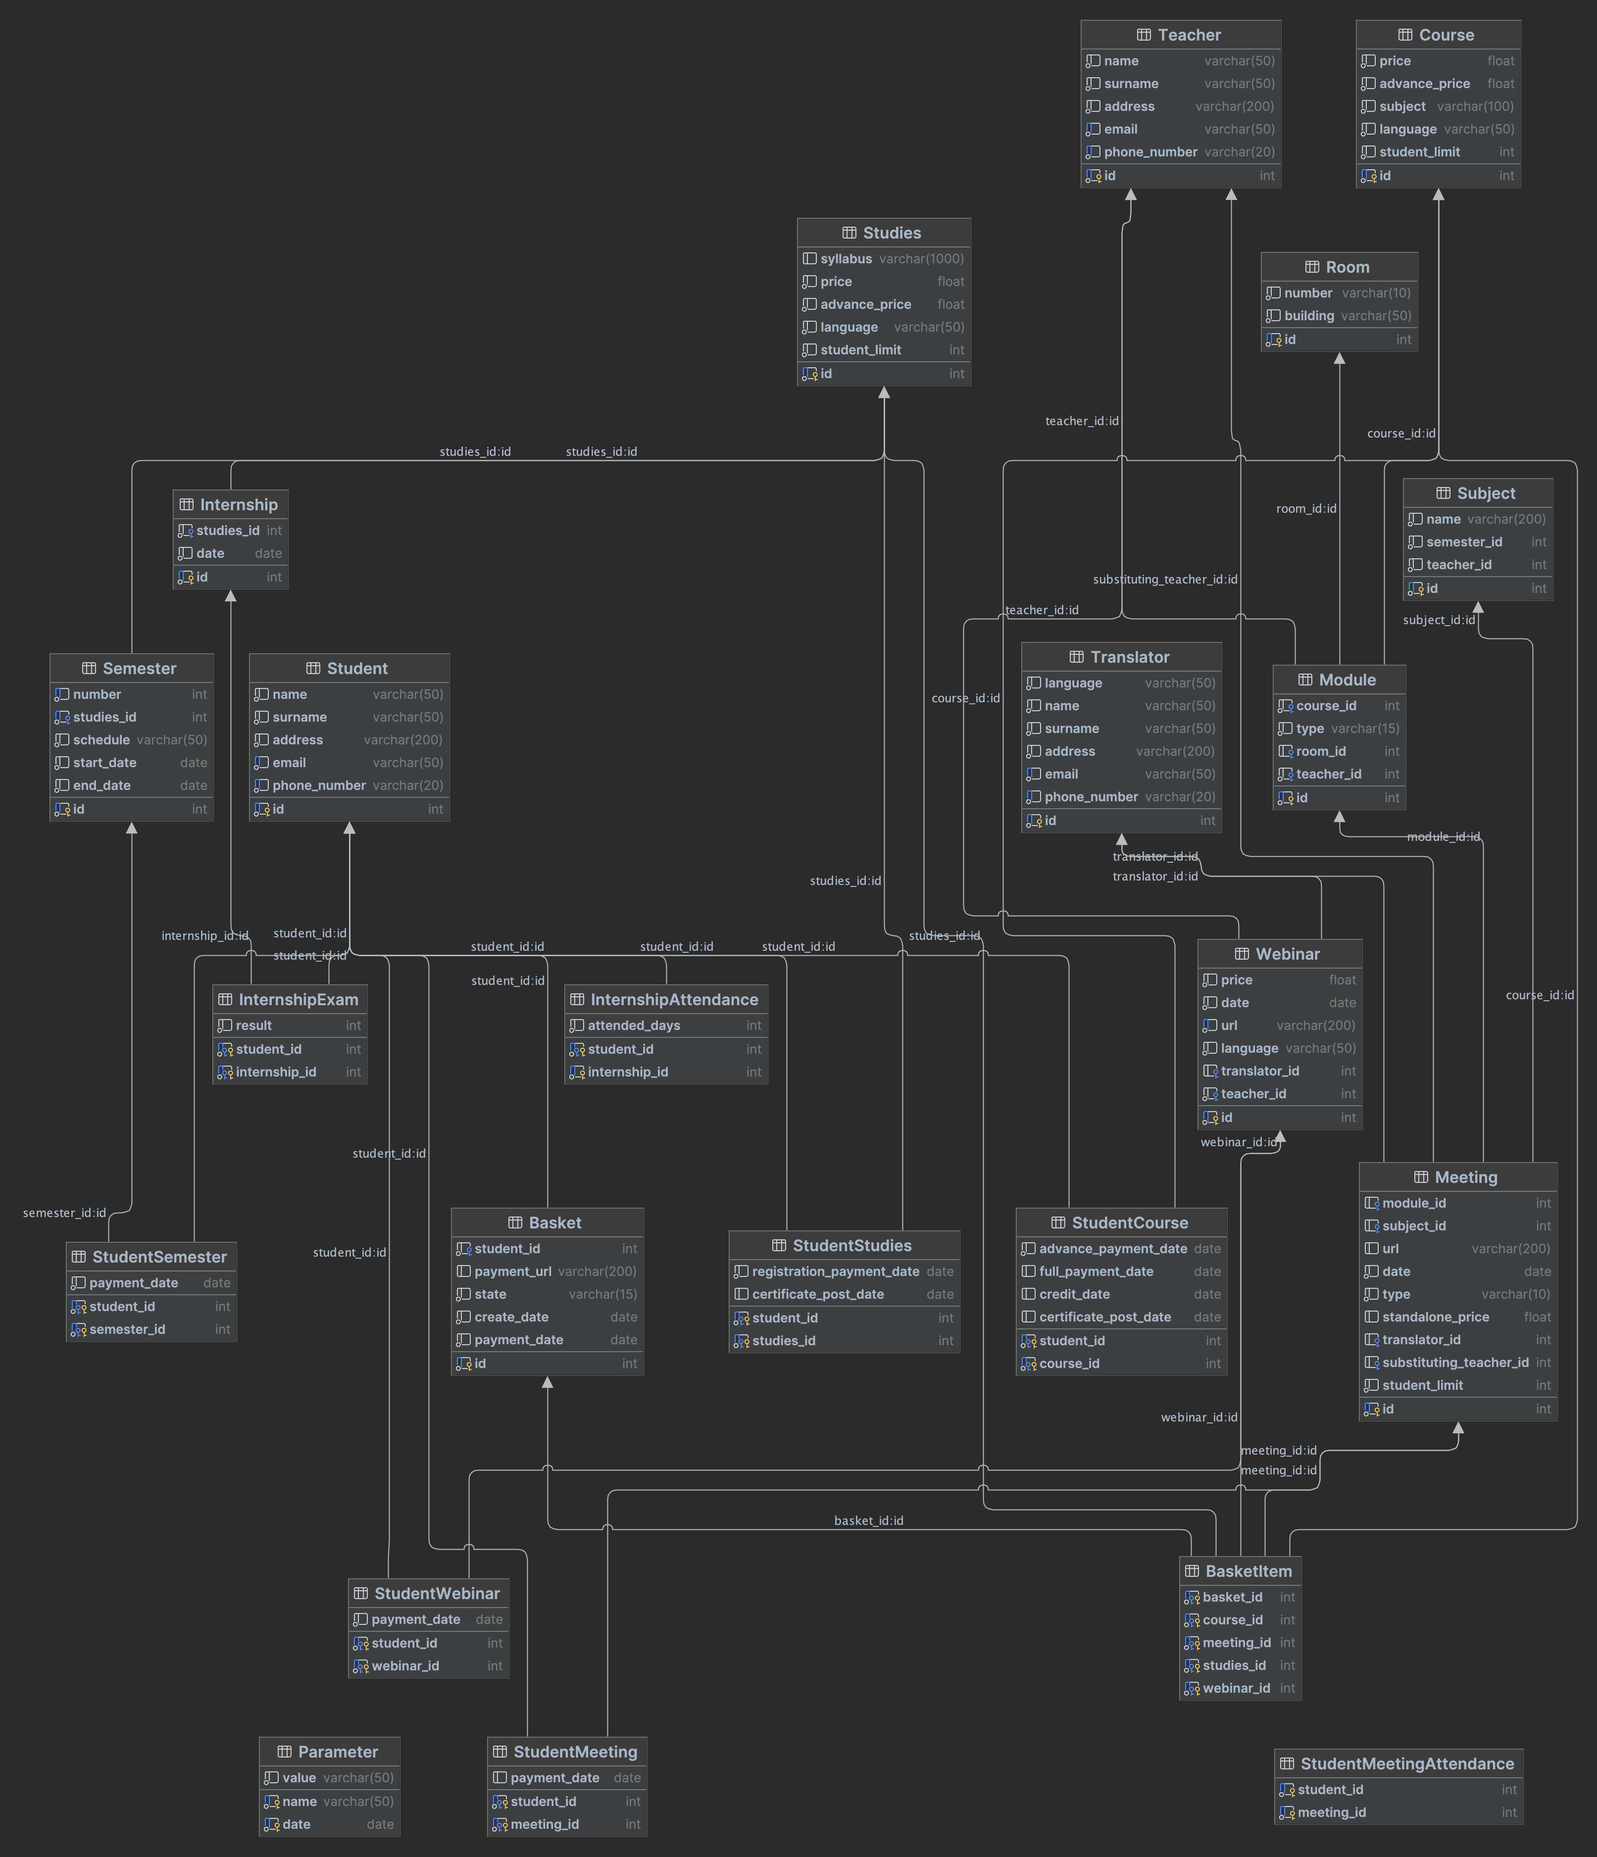
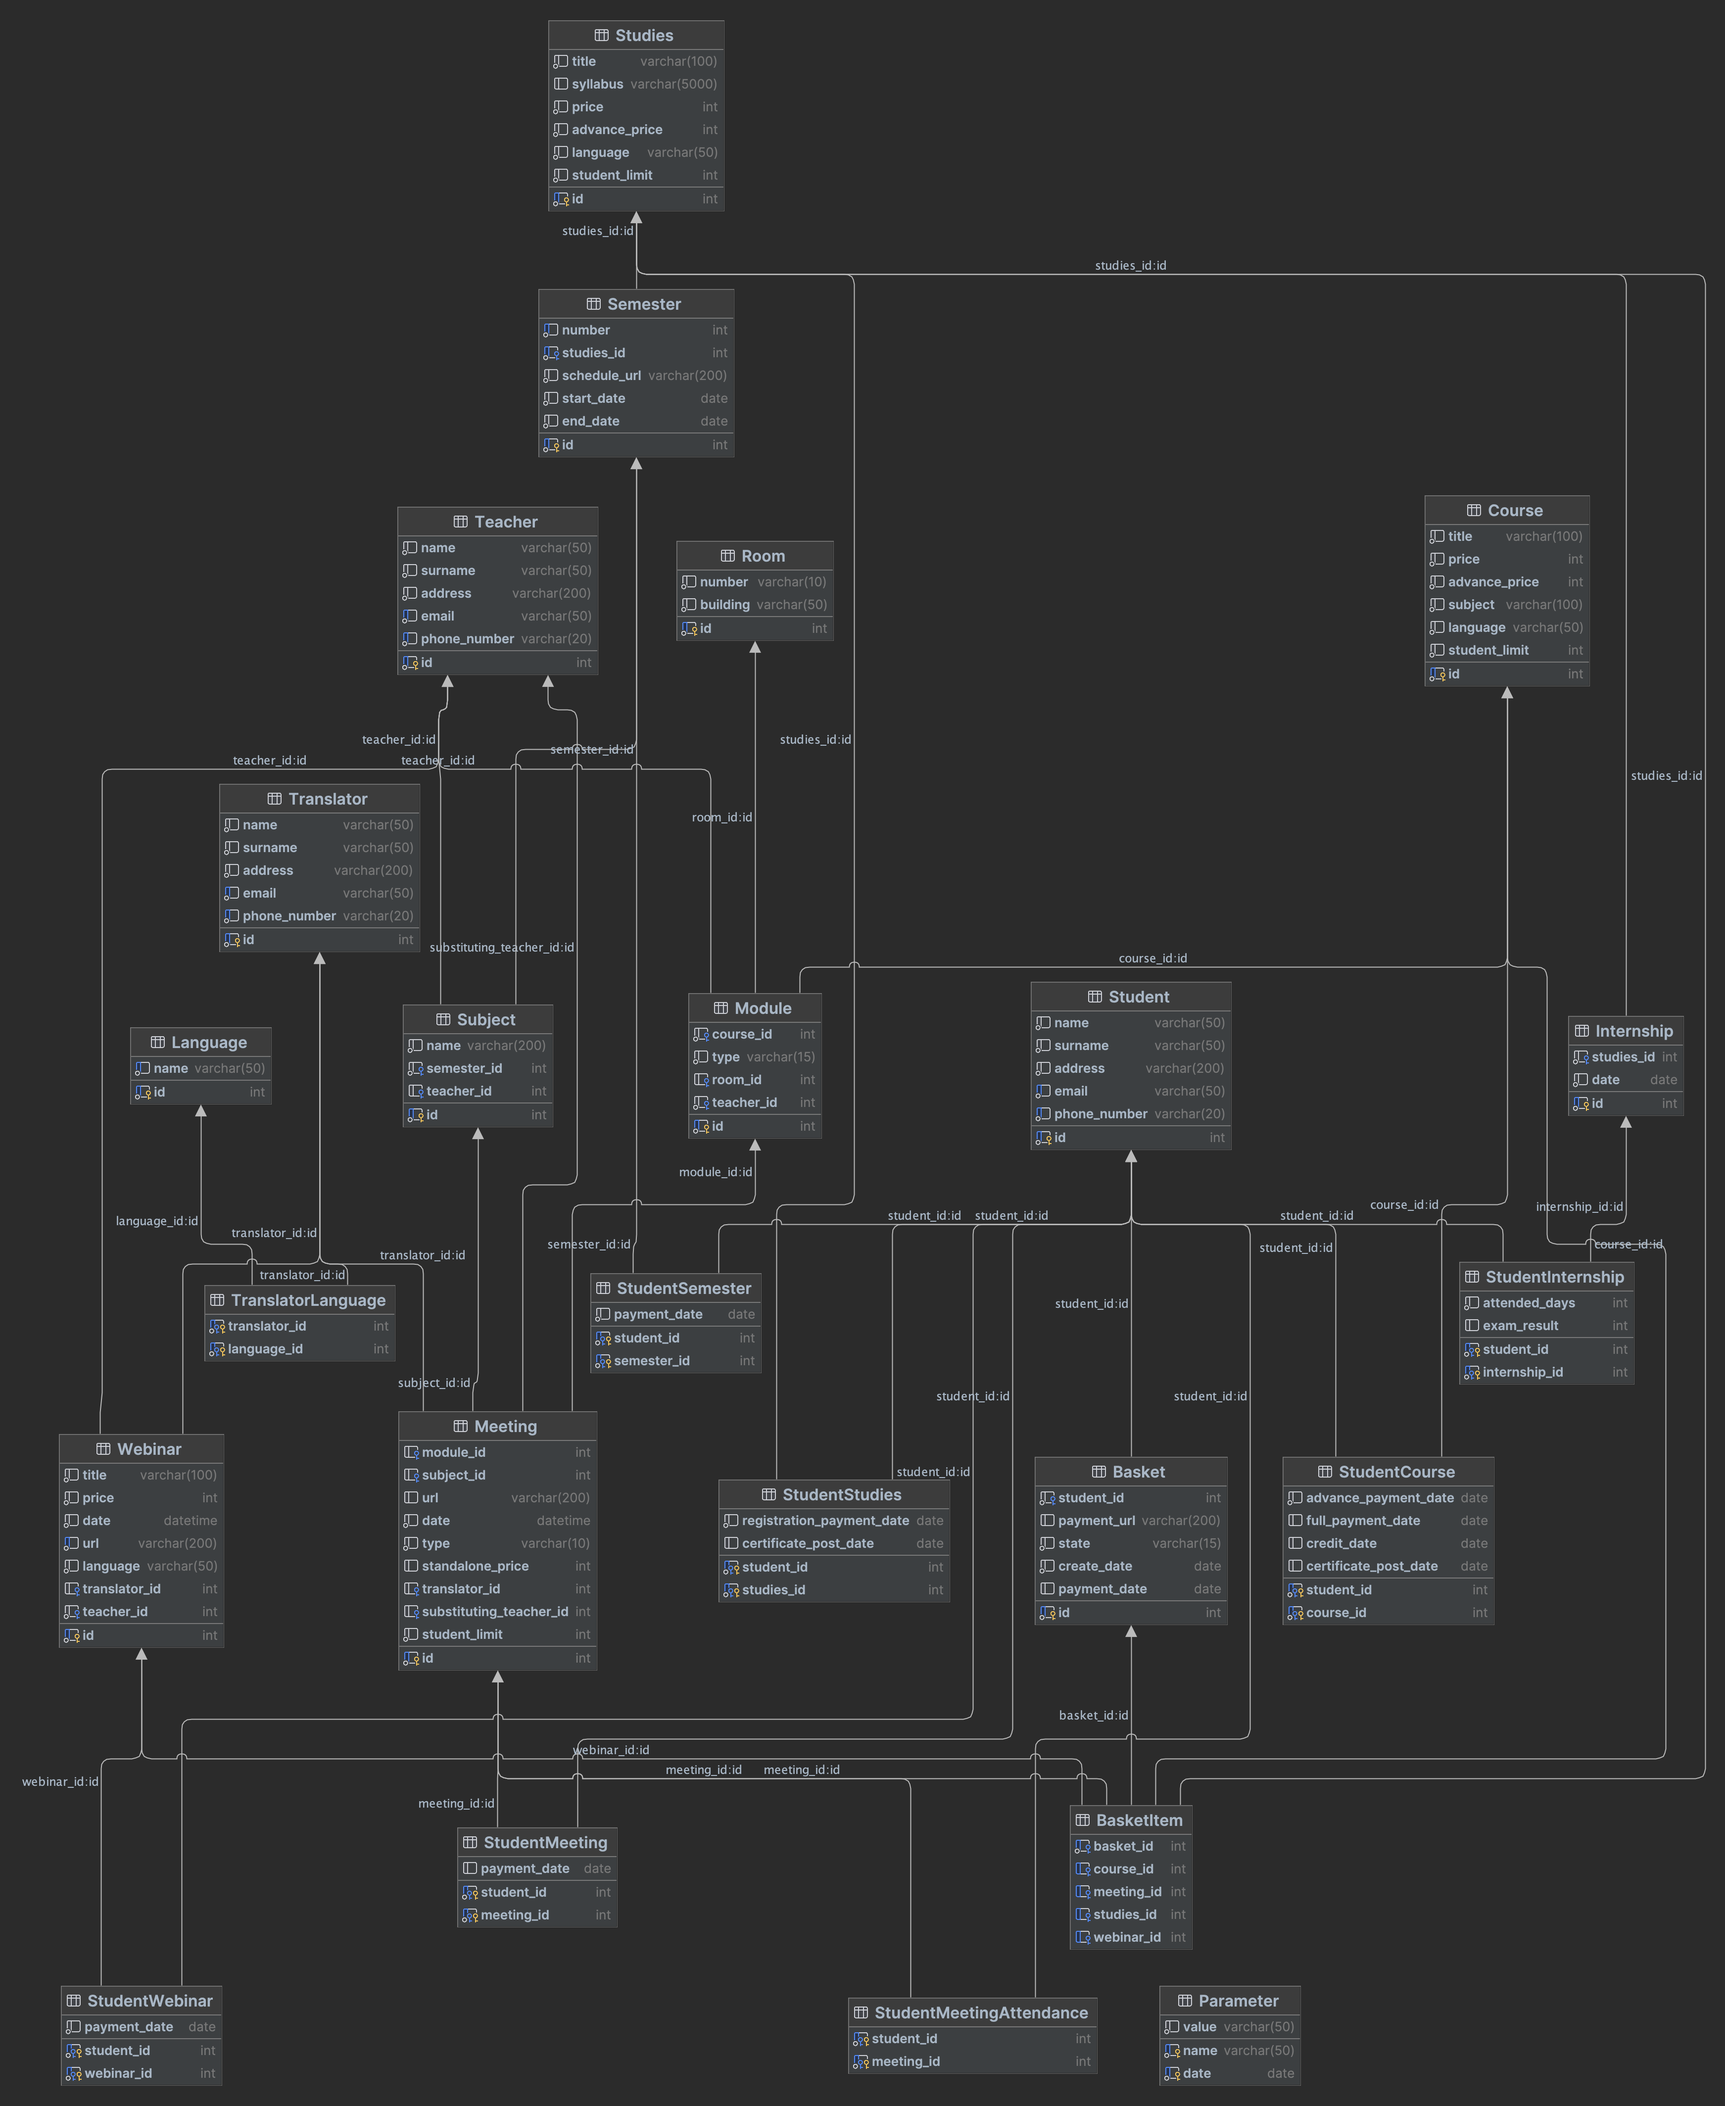
add language table

diff --git a/Faker/src/main/kotlin/InsertManager.kt b/Faker/src/main/kotlin/InsertManager.kt
@@ -4,20 +4,19 @@ import com.typesafe.config.Config
 import io.github.serpro69.kfaker.Faker
 import kotlinx.coroutines.flow.asFlow
 import kotlinx.coroutines.flow.count
-import kotlinx.coroutines.flow.map
+import kotlinx.coroutines.flow.mapNotNull
 import model.*
 import mu.KotlinLogging
 import org.jetbrains.exposed.dao.id.IntIdTable
 import org.jetbrains.exposed.sql.insert
 import org.jetbrains.exposed.sql.selectAll
 import org.jetbrains.exposed.sql.transactions.experimental.newSuspendedTransaction
-import org.oolab.model.model.Language
 import org.oolab.model.model.Languages
 import org.oolab.model.model.TranslatorLanguage
 import java.time.LocalDateTime
 
 @Suppress("LocalVariableName")
-class InsertManager(private val faker: Faker, val fakerConfig: Config) {
+class InsertManager(private val faker: Faker, val fakerConfig: Config, val reconnect: () -> Unit) {
   private val logger = KotlinLogging.logger("InsertManager")
 
   init {
@@ -88,8 +87,8 @@ class InsertManager(private val faker: Faker, val fakerConfig: Config) {
         faker.random { language = faker.nation.language() }
         studentLimit = faker.random.nextInt(1..5)
       }
-    }!!
-  }.count()
+    }
+  }.countNotNull()
 
   suspend fun insertRooms(): Int = List(get("rooms")) {
     safeTransaction {
@@ -97,24 +96,25 @@ class InsertManager(private val faker: Faker, val fakerConfig: Config) {
         number = faker.string.numerify("##.##")
         building = faker.string.bothify("?##", true)
       }
-    }!!
-  }.count()
+    }
+  }.countNotNull()
 
-  suspend fun insertLanguages(): Int = List(get("languages")) {
-    safeTransaction {
-      Language.new {
-        name = faker.nation.language()
+  suspend fun insertLanguages(): Int =
+    generateSequence { faker.nation.language() }.distinct().take(get("languages")).asFlow().mapNotNull { name ->
+      safeTransaction {
+        Languages.insert {
+          it[Languages.name] = name
+        }
       }
-    }!!
-  }.count()
+    }.count()
 
   suspend fun insertBaskets(): Int {
     val studentIds = Students.allIds()
     return List(get("baskets")) {
-      safeTransaction {
-        val isOpen = faker.random.nextBoolean()
-        val createDat = faker.date()
-        studentIds.takeRandom(get("basketItems")).map { _studentId ->
+      val isOpen = faker.random.nextBoolean()
+      val createDat = faker.date()
+      studentIds.takeRandom(get("basketItems")).mapNotNull { _studentId ->
+        safeTransaction {
           Baskets.insert {
             it[studentId] = _studentId
             if (!isOpen) it[paymentUrl] = faker.internet.url(
@@ -127,7 +127,7 @@ class InsertManager(private val faker: Faker, val fakerConfig: Config) {
             faker.random { it[paymentDate] = faker.date(createDat) }
           }
         }
-      }!!
+      }
     }.flatten().count()
   }
 
@@ -136,16 +136,14 @@ class InsertManager(private val faker: Faker, val fakerConfig: Config) {
     return studiesIds.sumOf { _studiesId ->
       generateSequence(faker.date()) { previous ->
         previous.plusMonths(6)
-      }.take(faker.random.nextInt(get<IntRange>("internships")))
-        .asFlow()
-        .map { _date ->
-          safeTransaction {
-            Internships.insert {
-              it[studiesId] = _studiesId
-              it[date] = _date
-            }
-          }!!
-        }.count()
+      }.take(faker.random.nextInt(get<IntRange>("internships"))).asFlow().mapNotNull { _date ->
+        safeTransaction {
+          Internships.insert {
+            it[studiesId] = _studiesId
+            it[date] = _date
+          }
+        }
+      }.count()
     }
   }
 
@@ -153,39 +151,39 @@ class InsertManager(private val faker: Faker, val fakerConfig: Config) {
     val semesterIds = Semesters.allIds()
     val teacherIds = Teachers.allIds()
     return semesterIds.sumOf { _semesterId ->
-      List(faker.random.nextInt(get<Int>("subjects"))) {
+      List(faker.random.nextInt(get<IntRange>("subjects"))) {
         safeTransaction {
           Subjects.insert {
             it[name] = faker.subject()
             it[semesterId] = _semesterId
             it[teacherId] = teacherIds.random()
           }
-        }!!
-      }.count()
+        }
+      }.countNotNull()
     }
   }
 
   suspend fun insertSemesters(): Int {
     val studiesIds = StudiesTable.allIds()
     return studiesIds.sumOf { _studiesId ->
-      val numberOfSemesters = faker.random.nextInt(get<Int>("semesters"))
+      val numberOfSemesters = faker.random.nextInt(get<IntRange>("semesters"))
       generateSequence(faker.date()) { date ->
         date.plusMonths(6).plusDays(1)
       }
         .take(numberOfSemesters)
         .mapIndexed { i, x -> i to x }
         .asFlow()
-        .map { (i, _startDate) ->
+        .mapNotNull { (i, _startDate) ->
           safeTransaction {
             Semesters.insert {
               it[number] = i + 1
               it[studiesId] = _studiesId
-              it[schedule] =
+              it[schedule_url] =
                 faker.internet.url(domain = faker.coffee.blendName(), path = faker.spongebob.quotes()).take(50)
               it[startDate] = _startDate
               it[endDate] = _startDate.plusMonths(6)
             }
-          }!!
+          }
         }.count()
     }
   }
@@ -219,8 +217,8 @@ class InsertManager(private val faker: Faker, val fakerConfig: Config) {
           faker.random { it[translatorId] = translatorIds.random() }
           it[teacherId] = teacherIds.random()
         }
-      }!!
-    }.count()
+      }
+    }.countNotNull()
   }
 
   suspend fun insertTranslators(): Int = List(get("translators")) {
@@ -233,14 +231,14 @@ class InsertManager(private val faker: Faker, val fakerConfig: Config) {
         email = faker.internet.email(firstName, lastName)
         phoneNumber = faker.phoneNumber.cellPhone.number()
       }
-    }!!
-  }.count()
+    }
+  }.countNotNull()
 
   suspend fun insertTranslatorLanguage(): Int {
     val languageIds = Languages.allIds()
     val translatorIds = Translators.allIds()
     return languageIds.sumOf { _languageId ->
-      translatorIds.takeRandom(faker.random.nextInt(get<IntRange>("languageTranslations"))).map { _translatorId ->
+      translatorIds.takeRandom(faker.random.nextInt(get<IntRange>("languageTranslators"))).map { _translatorId ->
         safeTransaction {
           TranslatorLanguage.insert {
             it[languageId] = _languageId
@@ -261,8 +259,8 @@ class InsertManager(private val faker: Faker, val fakerConfig: Config) {
         email = faker.internet.email(firstName, lastName)
         phoneNumber = faker.phoneNumber.cellPhone.number()
       }
-    }!!
-  }.count()
+    }
+  }.countNotNull()
 
   suspend fun insertStudents(): Int = List(get("students")) {
     safeTransaction {
@@ -293,9 +291,9 @@ class InsertManager(private val faker: Faker, val fakerConfig: Config) {
           it[value] = _value.toString()
           it[date] = faker.date()
         }
-      }!!
+      }
     }
-  }.count()
+  }.countNotNull()
 
 
   suspend fun insertBasketItems(): Int {
@@ -328,7 +326,7 @@ class InsertManager(private val faker: Faker, val fakerConfig: Config) {
     val studentIds = Students.allIds()
 
     return internshipIds.sumOf { _internshipId ->
-      studentIds.takeRandom(faker.random.nextInt(get<IntRange>("studentInternship"))).map { id ->
+      studentIds.takeRandom(faker.random.nextInt(get<IntRange>("studentInternships"))).map { id ->
         safeTransaction {
           StudentInternship.insert {
             it[internshipId] = _internshipId
@@ -414,8 +412,8 @@ class InsertManager(private val faker: Faker, val fakerConfig: Config) {
             it[webinarId] = id
             it[paymentDate] = faker.date()
           }
-        }!!
-      }.count()
+        }
+      }.countNotNull()
     }
   }
 
@@ -452,19 +450,22 @@ class InsertManager(private val faker: Faker, val fakerConfig: Config) {
       f()
     } catch (e: Exception) {
       logger.warn(e.message)
-      if (listOf(
+      when {
+        "The connection is closed" in e.message.orEmpty() -> reconnect()
+        listOf(
           "Violation of UNIQUE KEY constraint",
           "Violation of PRIMARY KEY constraint",
-        ).any { it in e.message.orEmpty() }
-      ) null
-      else {
-        null
+        ).any { it in e.message.orEmpty() } -> {
+        }
+
+        else -> {}
       }
+      null
     }
   }
 
   private fun <T> List<T>.takeRandom(n: Int): List<T> = generateSequence(::random).distinct().take(n).toList()
   private fun <T> Iterable<T>.countNotNull(): Int = count { it != null }
 
-  private fun IntIdTable.allIds() = this.selectAll().map { it[this.id].value }
+  private suspend fun IntIdTable.allIds(): List<Int> = safeTransaction { this.selectAll().map { it[this.id].value } }!!
 }

diff --git a/Faker/src/main/kotlin/Main.kt b/Faker/src/main/kotlin/Main.kt
@@ -2,7 +2,6 @@ package org.oolab.model
 
 import com.typesafe.config.Config
 import com.typesafe.config.ConfigFactory
-import com.typesafe.config.ConfigValue
 import io.github.serpro69.kfaker.faker
 import model.*
 import mu.KotlinLogging
@@ -11,6 +10,8 @@ import org.jetbrains.exposed.sql.SchemaUtils
 import org.jetbrains.exposed.sql.deleteAll
 import org.jetbrains.exposed.sql.selectAll
 import org.jetbrains.exposed.sql.transactions.transaction
+import org.oolab.model.model.Languages
+import org.oolab.model.model.TranslatorLanguage
 
 suspend fun main() {
   val logger = KotlinLogging.logger("Main")
@@ -25,12 +26,15 @@ suspend fun main() {
 
   logger.info { "Config loaded" }
 
-  Database.connect(
-    url = dbConfig.getString("url"),
-    driver = dbConfig.getString("driver"),
-    user = dbConfig.getString("user"),
-    password = dbConfig.getString("password")
-  )
+  val connect = {
+    Database.connect(
+      url = dbConfig.getString("url"),
+      driver = dbConfig.getString("driver"),
+      user = dbConfig.getString("user"),
+      password = dbConfig.getString("password")
+    )
+  }
+  connect()
 
   logger.info { "Database connected" }
 
@@ -55,6 +59,8 @@ suspend fun main() {
     Subjects,
     Teachers,
     Translators,
+    Languages,
+    TranslatorLanguage,
     Webinars,
     Students,
     StudentSemesters,
@@ -92,17 +98,22 @@ suspend fun main() {
 
   logger.info { "Schemas checked" }
 
-  val tableNamesToDrop = dbConfig.getList("tablesToDrop").map(ConfigValue::render)
-  tables.filter { it.tableName in tableNamesToDrop }.forEach {
-    it::deleteAll.now()
-    require(it.selectAll()::empty.now()) {
-      "Table ${it.tableName} is not empty"
+//  val tableNamesToDrop = dbConfig.getList("tablesToDrop").map(ConfigValue::render)
+  if (dbConfig.getBoolean("drop")) {
+    tables.forEach {
+      it::deleteAll.now()
+      require(it.selectAll()::empty.now()) {
+        "Table ${it.tableName} is not empty"
+      }
     }
+    logger.info { "Tables cleared" }
   }
-  logger.info { "Tables cleared" }
 
 
-  val insertManager = InsertManager(faker, fakerConfig)
+  val insertManager = InsertManager(faker, fakerConfig) {
+    connect()
+    logger.info { "Database reconnected" }
+  }
 
   logger.info { "InsertManager initialized" }
 
@@ -154,7 +165,7 @@ suspend fun main() {
   val studentStudies = insertManager.insertStudentStudies()
   logger.info { "$studentStudies StudentStudies inserted" }
   val languageTranslators = insertManager.insertTranslatorLanguage()
-  logger.info { "$languageTranslators LanguageTranslators inserted" }
+  logger.info { "$languageTranslators TranslatorLanguage inserted" }
 }
 
 fun <T> (() -> T).now(): T = transaction { this@now() }

diff --git a/Faker/src/main/kotlin/model/Language.kt b/Faker/src/main/kotlin/model/Language.kt
@@ -5,6 +5,7 @@ import org.jetbrains.exposed.dao.IntEntity
 import org.jetbrains.exposed.dao.IntEntityClass
 import org.jetbrains.exposed.dao.id.EntityID
 import org.jetbrains.exposed.dao.id.IntIdTable
+import org.jetbrains.exposed.sql.ReferenceOption
 import org.jetbrains.exposed.sql.Table
 
 object Languages : IntIdTable("Language") {
@@ -17,9 +18,9 @@ class Language(id: EntityID<Int>) : IntEntity(id) {
   var name by Languages.name
 }
 
-object TranslatorLanguage : Table("translator_language") {
-  val translatorId = integer("translator_id").references(Translators.id)
-  val languageId = integer("language_id").references(Languages.id)
+object TranslatorLanguage : Table("TranslatorLanguage") {
+  val translatorId = integer("translator_id").references(Translators.id, onDelete = ReferenceOption.CASCADE)
+  val languageId = integer("language_id").references(Languages.id, onDelete = ReferenceOption.CASCADE)
 
   override val primaryKey: PrimaryKey = PrimaryKey(translatorId, languageId)
 }

diff --git a/Faker/src/main/kotlin/model/Semester.kt b/Faker/src/main/kotlin/model/Semester.kt
@@ -11,7 +11,7 @@ import org.jetbrains.exposed.sql.javatime.date
 object Semesters : IntIdTable("Semester") {
   val number = integer("number")
   val studiesId = integer("studies_id").references(StudiesTable.id, onDelete = ReferenceOption.NO_ACTION)
-  val schedule = varchar("schedule", 50)
+  val schedule_url = varchar("schedule_url", 50)
   val startDate = date("start_date")
   val endDate = date("end_date")
 
@@ -25,7 +25,7 @@ class Semester(id: EntityID<Int>) : IntEntity(id) {
 
   var number by Semesters.number
   var studies by Studies referencedOn Semesters.studiesId
-  var schedule by Semesters.schedule
+  var schedule by Semesters.schedule_url
   var startDate by Semesters.startDate
   var endDate by Semesters.endDate
 }

diff --git a/Faker/src/main/kotlin/model/Internship.kt b/Faker/src/main/kotlin/model/Internship.kt
@@ -26,7 +26,7 @@ object StudentInternship : Table("StudentInternship") {
   val studentId = integer("student_id").references(Students.id, onDelete = ReferenceOption.CASCADE)
   val internshipId = integer("internship_id").references(Internships.id, onDelete = ReferenceOption.CASCADE)
   val attendedDays = integer("attended_days").default(0)
-  val examResult = integer("exam_result")
+  val examResult = integer("exam_result").nullable()
 
   override val primaryKey: PrimaryKey = PrimaryKey(studentId, internshipId)
 
